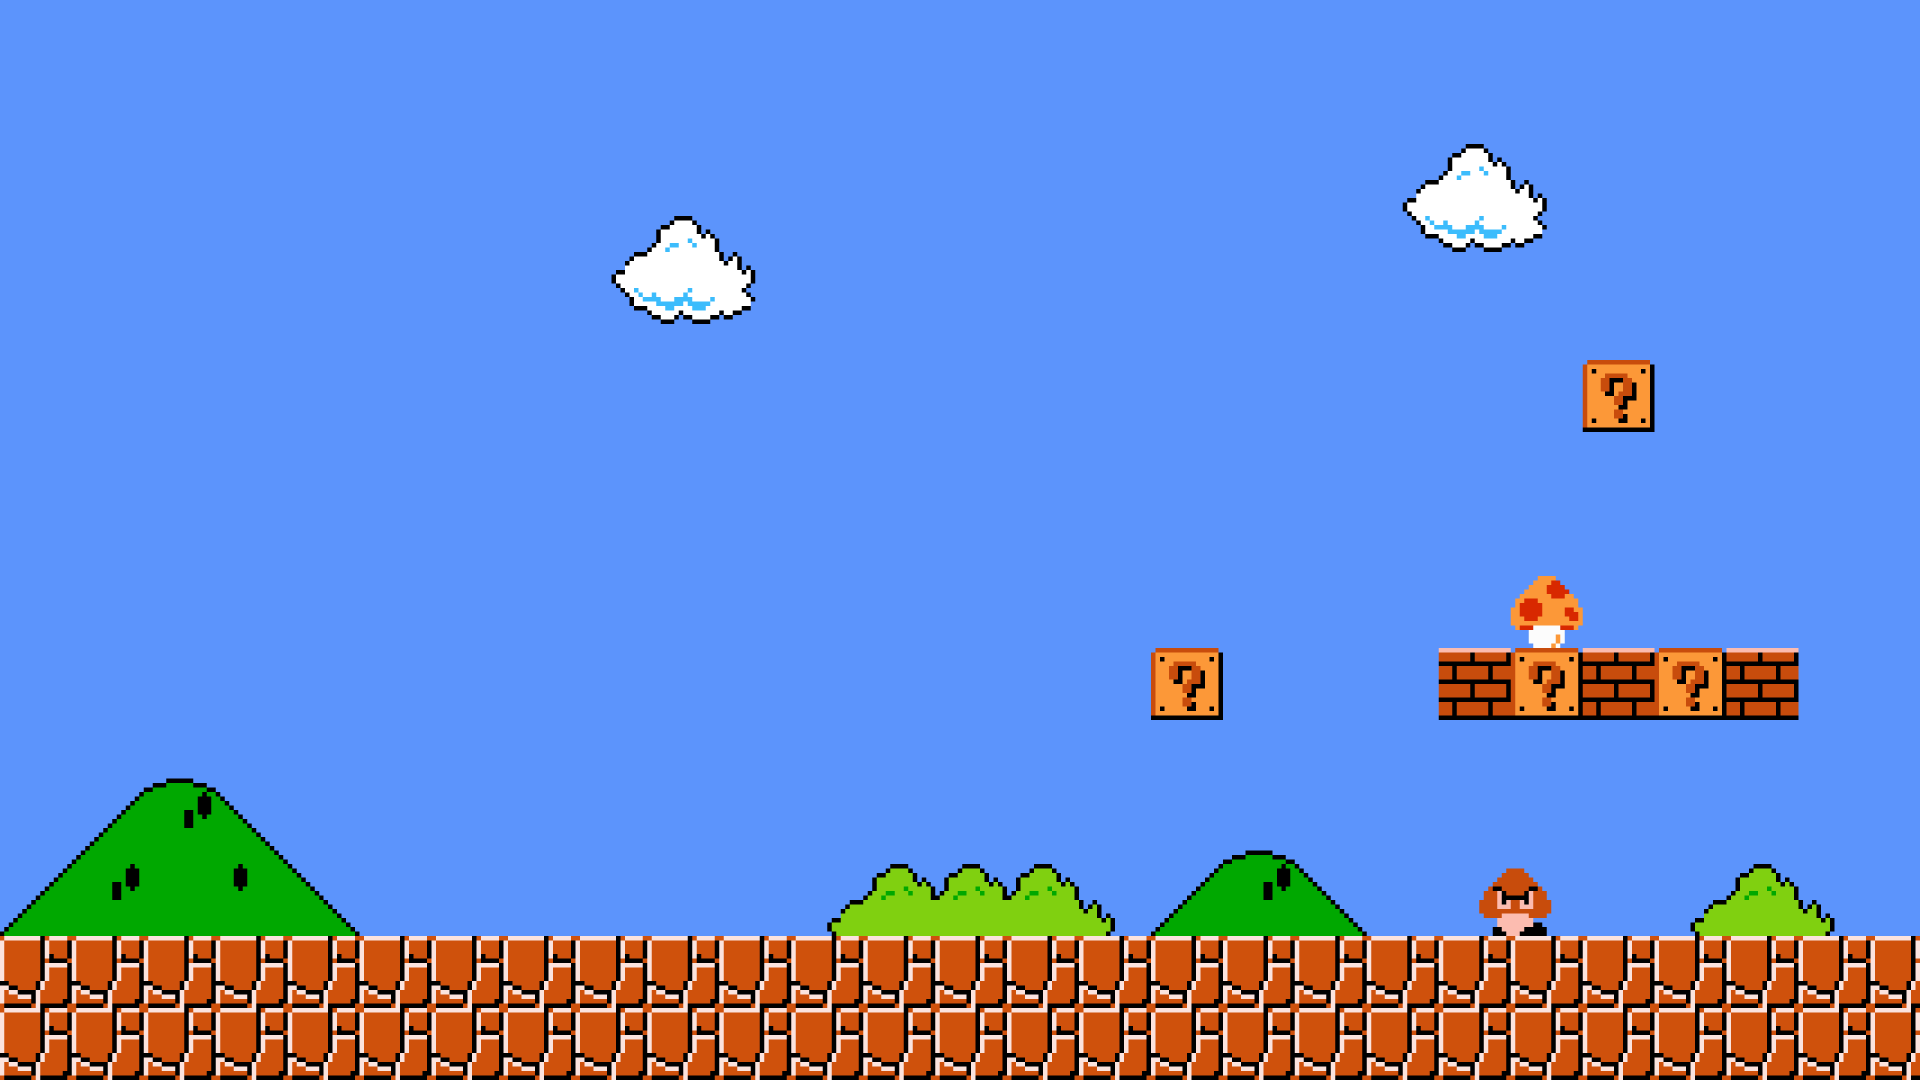
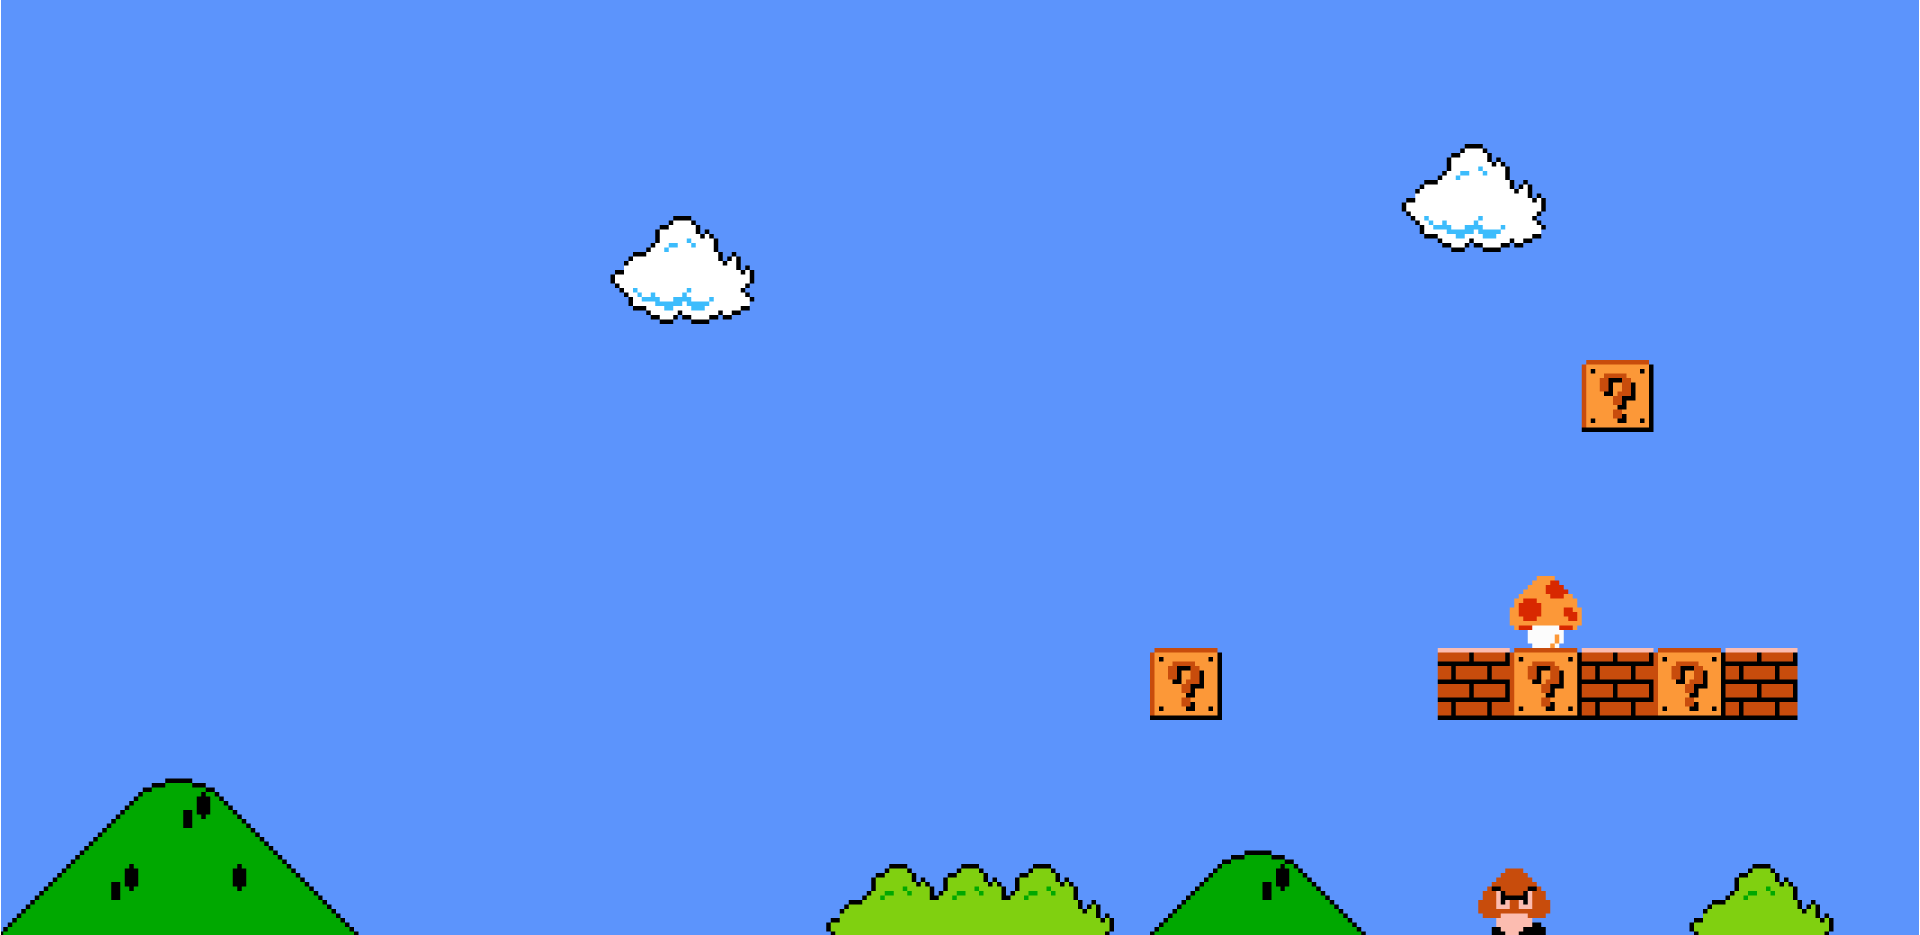
edicion del fondo

diff --git a/index.html b/index.html
@@ -9,44 +9,46 @@
     <title>Memo Game</title>
 </head>
 <body>
-    <main>
-        <section class="section1">
-            <h1>memotest</h1>
-            <table>
-                <tr>
-                    <td><button class="botones" id="0" onclick="destapar(this)"></button></td>
-                    <td><button class="botones" id="1" onclick="destapar(this)"></button></td>
-                    <td><button class="botones" id="2" onclick="destapar(this)"></button></td>
-                    <td><button class="botones" id="3" onclick="destapar(this)"></button></td>
-                </tr>
-                <tr>
-                    <td><button class="botones" id="4" onclick="destapar(this)"></button></td>
-                    <td><button class="botones" id="5" onclick="destapar(this)"></button></td>
-                    <td><button class="botones" id="6" onclick="destapar(this)"></button></td>
-                    <td><button class="botones" id="7" onclick="destapar(this)"></button></td>
-                </tr>
-                <tr>
-                    <td><button class="botones" id="8" onclick="destapar(this)"></button></td>
-                    <td><button class="botones" id="9" onclick="destapar(this)"></button></td>
-                    <td><button class="botones" id="10" onclick="destapar(this)"></button></td>
-                    <td><button class="botones" id="11" onclick="destapar(this)"></button></td>
-                </tr>
-                <tr>
-                    <td><button class="botones" id="12" onclick="destapar(this)"></button></td>
-                    <td><button class="botones" id="13" onclick="destapar(this)"></button></td>
-                    <td><button class="botones" id="14" onclick="destapar(this)"></button></td>
-                    <td><button class="botones" id="15" onclick="destapar(this)"></button></td>
-                </tr>
-            </table>
-        </section>
-        <section class="section2">
-            <h2 id="aciertos" class="estadisticas">Aciertos: <span id="cantAciertos">0</span></h2>
-            <h2 id="tiempo" class="estadisticas">Tiempo: <span id="tiempoRestante">30</span> segundos</h2>
-            <h2 id="movimientos" class="estadisticas">Movimientos: <span id="cantMovimientos">0</span></h2>
-        </section>
-        <section class="modal">    
-        </section>
-    </main>
+    <div class="conteinerFondo">
+        <main>
+            <section class="section1">
+                <h1>memotest</h1>
+                <table>
+                    <tr>
+                        <td><button class="botones" id="0" onclick="destapar(this)"></button></td>
+                        <td><button class="botones" id="1" onclick="destapar(this)"></button></td>
+                        <td><button class="botones" id="2" onclick="destapar(this)"></button></td>
+                        <td><button class="botones" id="3" onclick="destapar(this)"></button></td>
+                    </tr>
+                    <tr>
+                        <td><button class="botones" id="4" onclick="destapar(this)"></button></td>
+                        <td><button class="botones" id="5" onclick="destapar(this)"></button></td>
+                        <td><button class="botones" id="6" onclick="destapar(this)"></button></td>
+                        <td><button class="botones" id="7" onclick="destapar(this)"></button></td>
+                    </tr>
+                    <tr>
+                        <td><button class="botones" id="8" onclick="destapar(this)"></button></td>
+                        <td><button class="botones" id="9" onclick="destapar(this)"></button></td>
+                        <td><button class="botones" id="10" onclick="destapar(this)"></button></td>
+                        <td><button class="botones" id="11" onclick="destapar(this)"></button></td>
+                    </tr>
+                    <tr>
+                        <td><button class="botones" id="12" onclick="destapar(this)"></button></td>
+                        <td><button class="botones" id="13" onclick="destapar(this)"></button></td>
+                        <td><button class="botones" id="14" onclick="destapar(this)"></button></td>
+                        <td><button class="botones" id="15" onclick="destapar(this)"></button></td>
+                    </tr>
+                </table>
+            </section>
+            <section class="section2">
+                <h2 id="aciertos" class="estadisticas">Aciertos: <span id="cantAciertos">0</span></h2>
+                <h2 id="tiempo" class="estadisticas">Tiempo: <span id="tiempoRestante">30</span> segundos</h2>
+                <h2 id="movimientos" class="estadisticas">Movimientos: <span id="cantMovimientos">0</span></h2>
+            </section>
+            <section class="modal">    
+            </section>
+        </main>
+    </div>
     <footer>
         <p>Desarrollado por <a href="https://gonzalez-ignacio.netlify.app/" target="_blank">González Ignacio</a></p>
     </footer>

diff --git a/assets/css/style.css b/assets/css/style.css
@@ -16,23 +16,22 @@
 
 body {
     background: url(../img/fondo.png) no-repeat center center fixed;
-    -webkit-background-size: cover;
-    -moz-background-size: cover;
-    -o-background-size: cover;
     background-size: cover;
     font-family: myFontMario;
     font-size: x-small;
     color: #fff; 
 }
 
+
 main {
     width: 730px;
-    margin: 30px auto;
+    margin: 0 auto;
     display: flex;
     align-items: center;
 }
 
 .section1{
+    margin-top: 5vh;
     background-color: rgba(255, 255, 255, 0.2);
     padding: 0 10px 10px;
     border-radius: 8px;
@@ -59,6 +58,7 @@ button:hover {
 }
 
 .section2{
+    margin-top: 5vh;
     background-color: rgba(255, 255, 255, 0.2);
     border-top-right-radius: 8px;
     border-bottom-right-radius: 8px;
@@ -70,20 +70,21 @@ button:hover {
 .estadisticas{
     border: 1px solid white;
     height: 105px;
+    margin: 10% 2%;
     border-radius: 8px;
     padding: 8px 20px;
     box-sizing: border-box;
 }
 
 footer{
-    background-color: #111111bd;
     color: rgb(241, 106, 11);
     text-align: center;
     text-shadow: black 2px 2px 2px;
-    position: absolute;
+    position: fixed;
     bottom: 0;
     width: 100%;
-    height: 4%;
+    padding: 1%;
+    height: 5vh;
 }
 
 a{
@@ -121,6 +122,7 @@ img {
     width: 30%;
     background-color: #fff;
     border-radius: 6px;
+    box-shadow: black 8px 8px 12px;
 }
 
 .modal_container * {

diff --git a/assets/js/script.js b/assets/js/script.js
@@ -103,7 +103,7 @@ function mostrarModal() {
     if (aciertos == 8 ) {
         contenidoModal += '<h2>Ganaste</h2>';
         contenidoModal += '<img src="./assets/img/win.png" alt="">';
-        contenidoModal += '<h4>Solo demoraste: ' + (30-timer) + ' </h4>'; 
+        contenidoModal += '<h4>Solo demoraste ' + (30-timer) + ' segundos</h4>'; 
     } else {
         contenidoModal += '<h2>Perdiste</h2>';
         contenidoModal += '<img src="./assets/img/lose.png" alt="">';
